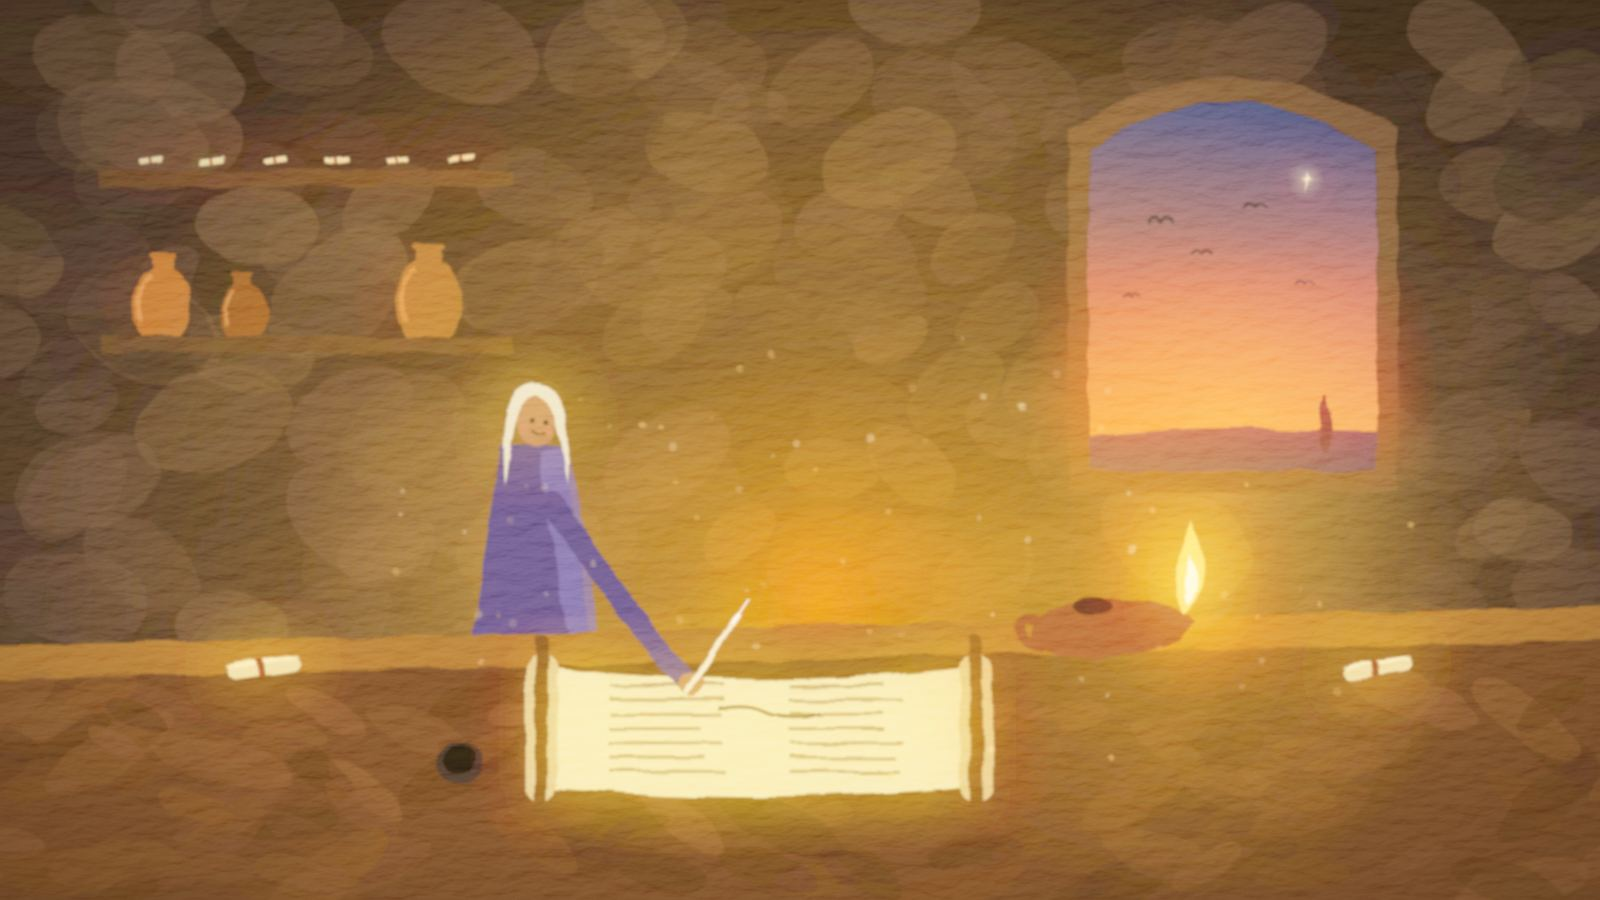
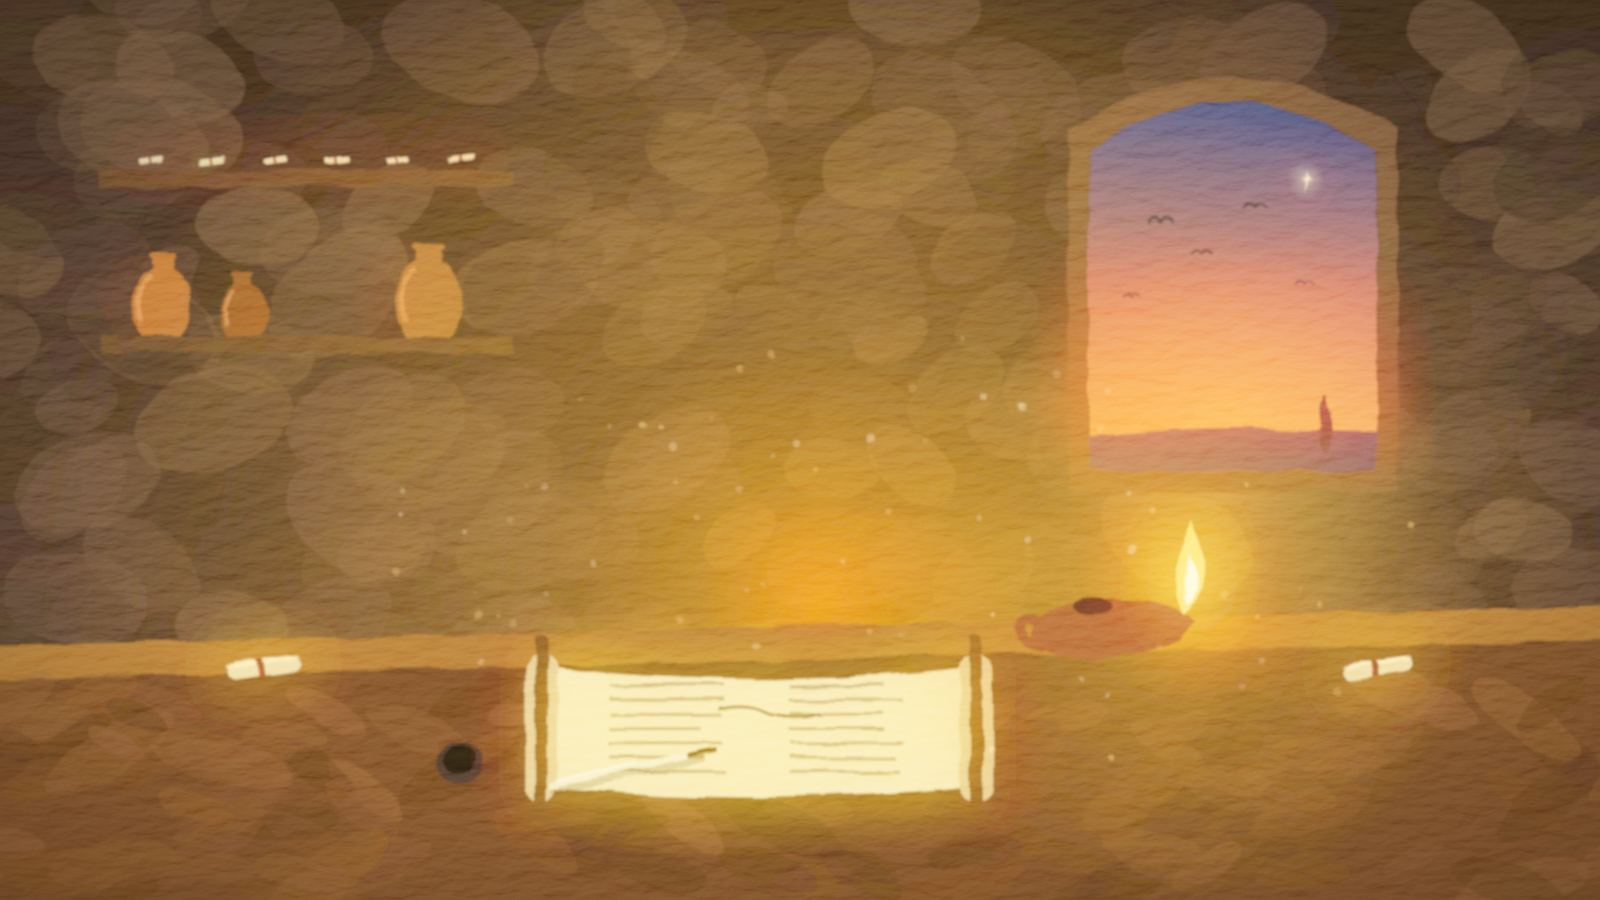
Seasonal round 3; family-mode names readable; jewel notes wrap; wheel fits short phones
Claude-Session: https://claude.ai/code/session_01Sqn2qeG7eJCNMRkH2SjbWb

Changed region(s): [[0.2812, 0.4044, 0.4688, 0.7778], [0.4062, 0.84, 0.4375, 0.8711]]

diff --git a/styles.css b/styles.css
@@ -1900,7 +1900,7 @@ dialog.quest::before { content: ""; position: absolute; inset: -50% 0 0; pointer
 .q-pips { position: absolute; left: 0; right: 0; bottom: -2px; display: flex; justify-content: center; gap: 3px; }
 .q-pips b { width: 6px; height: 6px; border-radius: 50%; background: rgb(255 255 255 / .25); } .q-pips b.on { background: #ffcf3f; }
 .q-cat { display: inline-flex; flex-direction: column; align-items: center; padding: 8px 22px; border-radius: 999px; background: var(--cc); font-weight: 800; font-size: 1.2rem; box-shadow: 0 4px 0 rgb(0 0 0 / .2); animation: q-drop .45s cubic-bezier(.3,1.5,.5,1) both; }
-.q-cat span { font-size: 1.6rem; } .q-cat small { font-weight: 600; font-size: .8rem; opacity: .9; }
+.q-cat span { font-size: 1.6rem; } .q-cat small { font-weight: 600; font-size: .8rem; opacity: .9; max-width: 15em; text-align: center; line-height: 1.25; margin-top: 2px; }
 .q-row { width: 100%; display: flex; align-items: stretch; gap: 10px; }
 .q-card { flex: 1; display: flex; align-items: center; justify-content: center; min-height: 120px; padding: 18px; border-radius: 22px; background: #fff; color: #22305e; font-size: 1.3rem; font-weight: 700; line-height: 1.35; box-shadow: 0 8px 0 rgb(0 0 0 / .2); animation: q-fly .5s cubic-bezier(.2,1.3,.4,1) both; }
 .q-card p { margin: 0; }
@@ -1932,6 +1932,7 @@ dialog.quest:not(.still) .qc-flame { animation: q-flick .6s ease-in-out infinite
   .q-card { min-height: 84px; padding: 12px 14px; font-size: 1.1rem; }
   .q-choice { min-height: 48px; padding: 8px 12px; font-size: 1.02rem; }
   .q-choices { gap: 8px; } .q-candle svg { height: 76px; }
+  .q-wheel { width: min(250px, 66vw); }
 }
 @media (max-width: 430px) { .q-helps { gap: 6px; flex-wrap: nowrap; } .q-help { padding: 8px 11px; font-size: .9rem; white-space: nowrap; } }
 .q-fb-head { display: flex; flex-direction: column; align-items: center; gap: 6px; animation: q-drop .45s cubic-bezier(.3,1.5,.5,1) both; }
@@ -1967,7 +1968,8 @@ dialog.quest:not(.still) .qc-flame { animation: q-flick .6s ease-in-out infinite
 .q-bonus .q-cat { background: linear-gradient(135deg, #ffcf3f, #ff9a3c); color: #3a2a00; }
 .q-pass h2 { font-size: 2.2rem; }
 .q-names { width: 100%; list-style: none; padding: 0; margin: 0; display: grid; gap: 8px; }
-.q-names li { display: flex; gap: 8px; } .q-names input { flex: 1; min-height: 52px; padding: 8px 14px; border: 0; border-radius: 14px; font: inherit; font-size: 1.15rem; }
+.q-names li { display: flex; gap: 8px; align-items: center; } .q-names input { flex: 1; min-height: 52px; padding: 8px 14px; border: 0; border-radius: 14px; font: inherit; font-size: 1.15rem; background: #fff; color: #22305e; -webkit-text-fill-color: #22305e; }
+.q-names input::placeholder { color: #7a86a8; -webkit-text-fill-color: #7a86a8; } .q-names [data-drop] { min-width: 44px; min-height: 44px; font-size: 1.2rem; color: #fff; text-decoration: none; }
 .q-badge-grid { width: 100%; display: grid; grid-template-columns: repeat(auto-fill, minmax(140px, 1fr)); gap: 12px; }
 .q-badge { display: flex; flex-direction: column; align-items: center; gap: 4px; padding: 12px; border-radius: 18px; background: rgb(255 255 255 / .1); }
 .q-badge.locked { opacity: .55; } .q-badge small { color: #dbe4ff; } .q-badge .medal { width: 56px; }

diff --git a/sw.js b/sw.js
@@ -1,5 +1,5 @@
 // Caches the app itself so it opens offline. Scripture text is not cached here.
-const VERSION = "bible-study-shell-v215";
+const VERSION = "bible-study-shell-v216";
 const SHELL = ["./", "index.html", "styles.css", "js/app.js", "js/books.js", "js/store.js", "js/text.js", "js/paths.js", "js/speech.js", "js/trivia.js", "js/trivia-bank.js", "js/trivia-bank2.js", "js/trivia-bank3.js", "js/art.js", "js/storybook.js", "js/notes.js", "js/notes-more.js", "js/chapters/make.js", "js/chapters/deeper-ot.js", "js/chapters/deeper-nt.js", ...["gen", "exo", "lev", "num", "deu", "jos", "jdg", "rut", "1sa", "2sa", "1ki", "2ki", "1ch", "2ch", "ezr", "neh", "est", "job", "psa", "pro", "ecc", "sng", "isa", "jer", "lam", "ezk", "dan", "hos", "jol", "amo", "oba", "jon", "mic", "nam", "hab", "zep", "hag", "mal", "zec", "mrk", "mat", "luk", "jhn", "act", "rom", "1co", "2co", "gal", "eph", "php", "col", "1th", "2th", "1ti", "2ti", "tit", "phm", "heb", "jas", "1pe", "2pe", "1jn", "2jn", "3jn", "jud", "rev"].map((b) => `js/chapters/${b}.js`), "js/history.js", "js/glossary.js", "js/intros.js", "js/topics.js", "js/outlines.js", "js/stickers.js", "js/bookstats.js", "js/daily.js", "js/guide.js", "js/whatsnew.js", "js/buddyguide.js", "js/buddygrow.js", "js/buddy.js", "js/game.js", "js/auth.js", "js/config.js", "js/vendor/supabase.js",
   "manifest.webmanifest", "icons/icon.svg", "icons/icon-180.png", "icons/icon-192.png", "icons/icon-512.png", "icons/icon-maskable-512.png"];
 

diff --git a/js/quest.js b/js/quest.js
@@ -242,7 +242,7 @@ export function createQuest({ store, esc, lively, lookColors, myName, practice, 
     if (!names.length) names = [me];
     const draw = () => {
       paint(`<div class="q-setup"><h2>Who's playing?</h2><p class="q-tag">Two to four players. Pass the device when it's someone else's turn.</p>
-        <ol class="q-names">${names.map((n, i) => `<li><input data-name="${i}" value="${esc(n)}" maxlength="16" aria-label="Player ${i + 1}">${names.length > 1 ? `<button class="q-link" data-drop="${i}" aria-label="Take ${esc(n || "this player")} out">✕</button>` : ""}</li>`).join("")}</ol>
+        <ol class="q-names">${names.map((n, i) => `<li><input data-name="${i}" value="${esc(n)}" maxlength="16" placeholder="Player ${i + 1}" aria-label="Player ${i + 1}">${names.length > 1 ? `<button class="q-link" data-drop="${i}" aria-label="Take ${esc(n || "this player")} out">✕</button>` : ""}</li>`).join("")}</ol>
         ${names.length < 4 ? `<button class="q-btn ghost" data-add>+ Add a player</button>` : ""}
         <button class="q-btn" data-go ${names.filter((n) => n.trim()).length < 2 ? "disabled" : ""}>Start the game</button>
         <button class="q-link" data-back>Back</button></div>`);

diff --git a/STATUS.md b/STATUS.md
@@ -1,8 +1,8 @@
 # Family Bible App: status
 
 <!-- The first two lines below are updated automatically every time a new version is published. -->
-**Last updated:** Wed Nov 25, 2026, 10:26 AM Central
-**Current version:** v215 (live at bible.breakoutroom.net; open apps update on their own)
+**Last updated:** Wed Nov 25, 2026, 10:34 AM Central
+**Current version:** v216 (live at bible.breakoutroom.net; open apps update on their own)
 
 Release target: **Friday, December 4, 2026**, as a Christmas gift. Everything is finished by Thursday, December 3, so release day is free. All times are Central.
 
@@ -10,6 +10,7 @@ This page is updated with every publish and at each daily check-in (9:00 AM, 1:3
 
 ## Since last update
 
+- Wed Nov 25, 10:50 AM: Seasonal round 3 from Melissa: New Year is back to the original; Learning has no person, just a half-written scroll with the pen and ink set down; Psalm 23 has green pastures on the sunlit hills fading into a deep navy valley. Games play-test: in family mode the players' names were white on white and couldn't be read (fixed, with a test), long "Jewel question" notes now wrap neatly, and the wheel fits short phones with the turn label showing.
 - Wed Nov 25, 10:35 AM: Seasonal backgrounds round 2, from Melissa's notes: New Year now shows dawn over Jerusalem lit by the temple's golden lampstands and torches (there were no fireworks in Bible times); February is prettier, with almond trees in blossom and red anemones; April has three crosses with the middle one larger and shining; May mixes olive, fig, cypress, almond and pomegranate; the Sea of Galilee town climbs the hill like the old Tiberias painting; Learning shows a scribe writing a scroll, with birds past the window; Psalm 23 has the Good Shepherd leading the flock and more detail; Advent is richer, with the ox, donkey and sheep, and in Lively pictures the star twinkles, the candles flicker and the baby Jesus softly glows (all still when motion is turned down). Handwriting and drawing inside typed notes is approved and planned for Fri Nov 27.
 - Wed Nov 25, 10:45 AM: Play-test of Bible Spin and the Quick check on a small phone and an iPad, in the kids' and Classic looks. Fixed: on short phones (iPhone SE, mini) the fourth answer and the helps were below the edge, and now everything fits. The Quick check now marks answers plainly in every look (green ✓ and red ✗), says the right answer in words (most explanations were only a verse reference), scrolls the Next button into view, starts on the question instead of the Close button, and ends with a "To read again" list of missed questions, each with a tap to read the verse. A solo game with no jewels now ends with "Good try! Every game you learn more." instead of "You won 0 of 7 jewels." All game tests pass.
 - Wed Nov 25, 10:15 AM: The opt-in "Seasonal changes" look is built, two days early. 13 warm, glowing painted backgrounds follow the year (New Year's dawn, winter sunrise, angels, March rain and rainbow, Easter, April gardens, May flowers, June Bible-times life, the Sea of Galilee, scrolls by lamplight, Psalm 23, harvest and Advent), with Easter moving each year from Palm Sunday through the Sunday after. The header color matches each painting, and the words always sit on plain cream panels, so the readability check passes in light and dark. Nobody is ever switched into it, and anyone in it isn't asked to switch to a holiday look. The preview of all 13 is sent to Melissa (project folder: bible-study/seasonal-preview/). Release-plan dates moved up as Melissa asked.
